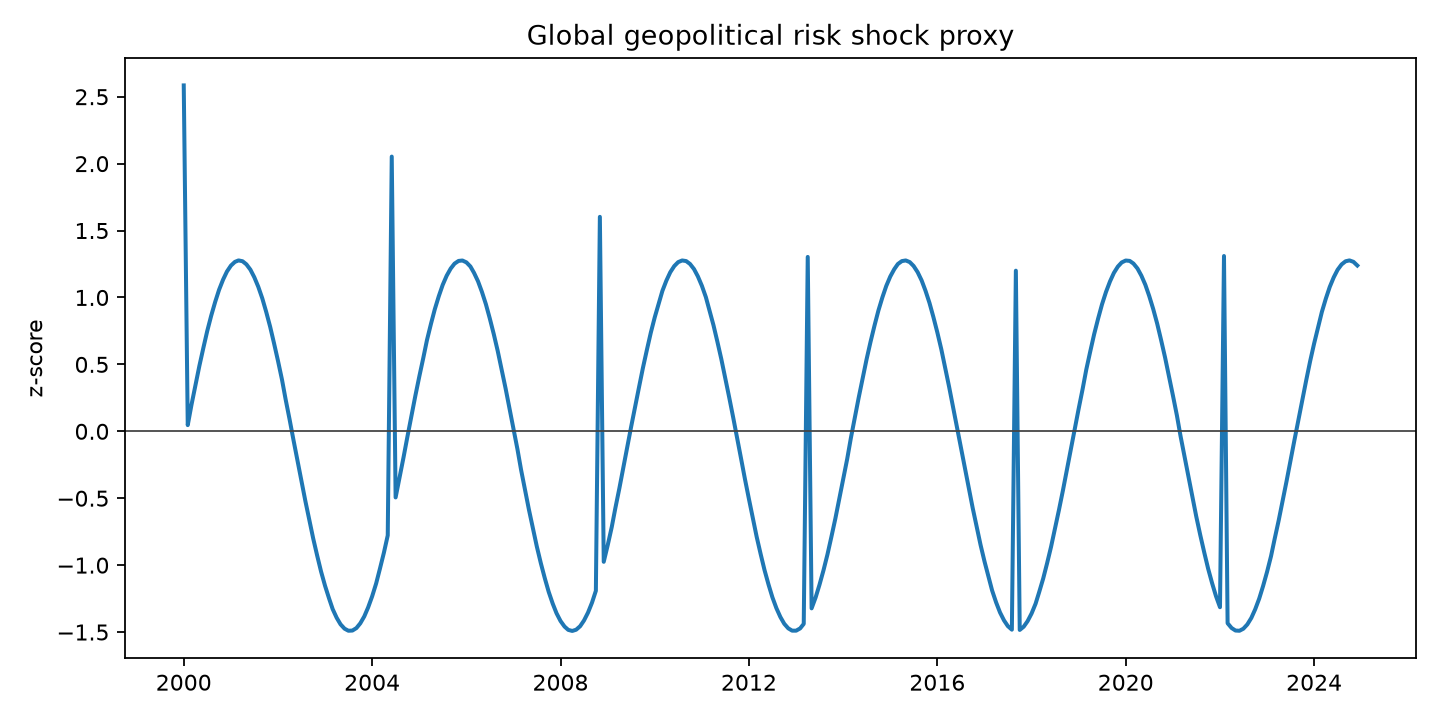
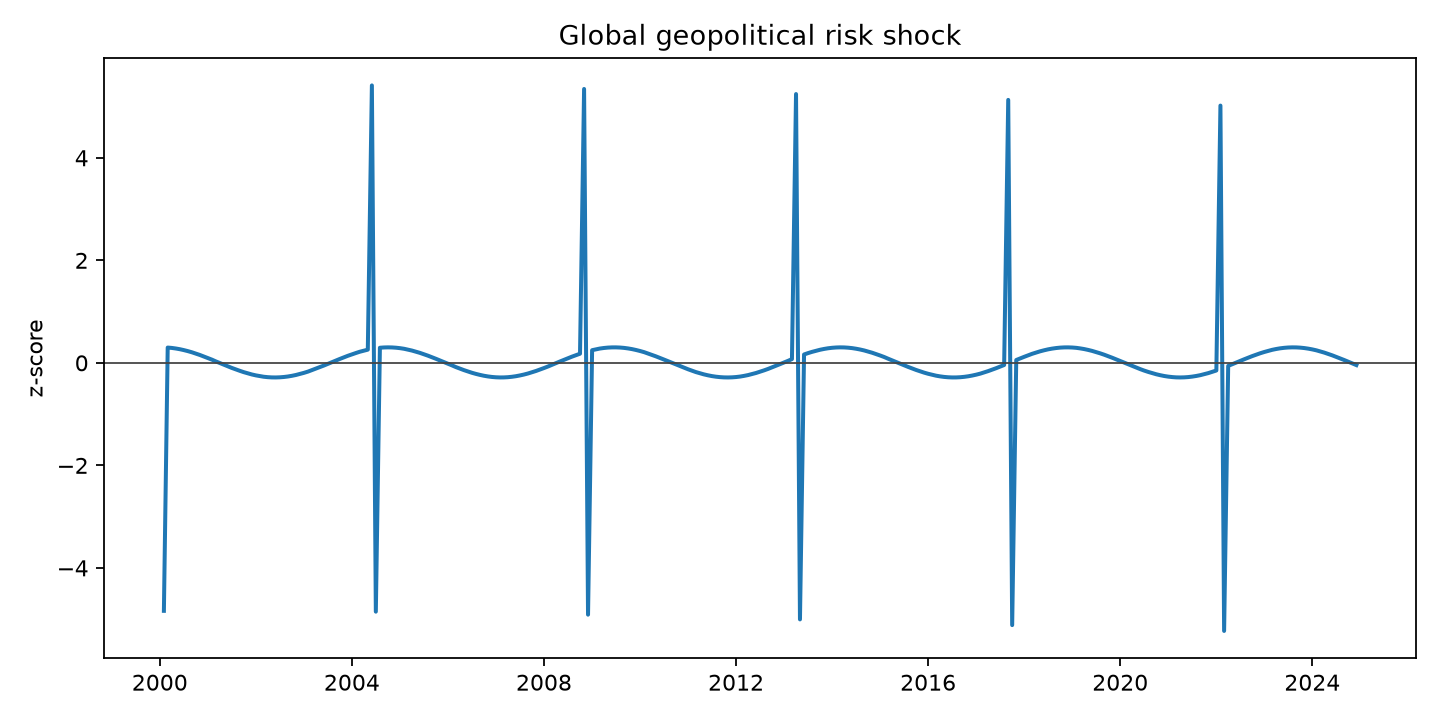
fix: present main GPR shock and validate forecast results

diff --git a/scripts/build_report.py b/scripts/build_report.py
@@ -49,23 +49,25 @@ def build_report(
         fig.text(0.1, 0.74, _metrics_block(metrics), fontsize=8, family="monospace")
         fig.text(0.1, 0.57, "Baseline regression", fontsize=13, weight="bold")
         fig.text(0.1, 0.52, _baseline_block(metrics), fontsize=8, family="monospace")
-        fig.text(0.1, 0.44, "Interpretation", fontsize=13, weight="bold")
-        fig.text(0.1, 0.40, metrics["interpretation"], fontsize=9, wrap=True)
-        fig.text(0.1, 0.33, "Summary statistics", fontsize=13, weight="bold")
-        fig.text(0.1, 0.28, summary.to_string(index=False), fontsize=7, family="monospace")
-        fig.text(0.1, 0.20, "Forecast comparison", fontsize=13, weight="bold")
+        fig.text(0.1, 0.44, "Horizon response", fontsize=13, weight="bold")
+        fig.text(0.1, 0.39, _horizon_block(metrics), fontsize=7, family="monospace")
+        fig.text(0.1, 0.31, "Interpretation", fontsize=13, weight="bold")
+        fig.text(0.1, 0.27, metrics["interpretation"], fontsize=8, wrap=True)
+        fig.text(0.1, 0.21, "Summary statistics", fontsize=13, weight="bold")
+        fig.text(0.1, 0.16, summary.to_string(index=False), fontsize=6, family="monospace")
+        fig.text(0.1, 0.10, "Forecast comparison", fontsize=13, weight="bold")
         fig.text(
             0.1,
-            0.15,
+            0.06,
             forecasts[["model", "rmse", "mae", "oos_r2"]].to_string(index=False),
-            fontsize=7,
+            fontsize=6,
             family="monospace",
         )
         fig.text(
             0.1,
-            0.07,
+            0.02,
             text["limitations"],
-            fontsize=8,
+            fontsize=6,
             wrap=True,
         )
         pdf.savefig(fig)
@@ -121,6 +123,7 @@ def report_metrics(panel: pd.DataFrame, regressions: pd.DataFrame, shock_col: st
         "baseline_std_error": round(std_error, 4),
         "baseline_p_value": round(float(baseline["p_value"]), 4),
         "confidence_interval_95": (lower, upper),
+        "horizon_regressions": _horizon_rows(regressions, shock_col),
         "interpretation": _interpret_regression(estimate, shock_col),
     }
 
@@ -161,6 +164,37 @@ def _baseline_block(metrics: dict) -> str:
         ("95% CI", metrics["confidence_interval_95"]),
     ]
     return "\n".join(f"{label}: {value}" for label, value in rows)
+
+
+def _horizon_rows(regressions: pd.DataFrame, shock_col: str) -> list[dict]:
+    rows = []
+    data = regressions[regressions["term"] == shock_col].sort_values("horizon")
+    for _, row in data.iterrows():
+        estimate = round(float(row["estimate"]), 4)
+        std_error = round(float(row["std_error"]), 4)
+        rows.append(
+            {
+                "horizon": f"{int(row['horizon'])}m",
+                "estimate": estimate,
+                "std_error": std_error,
+                "p_value": round(float(row["p_value"]), 4),
+                "confidence_interval_95": (
+                    round(estimate - 1.96 * std_error, 3),
+                    round(estimate + 1.96 * std_error, 3),
+                ),
+            }
+        )
+    return rows
+
+
+def _horizon_block(metrics: dict) -> str:
+    rows = ["Horizon | Estimate | Std. error | p-value | 95% CI"]
+    for row in metrics["horizon_regressions"]:
+        rows.append(
+            f"{row['horizon']:>7} | {row['estimate']:>8} | {row['std_error']:>10} | "
+            f"{row['p_value']:>7} | {row['confidence_interval_95']}"
+        )
+    return "\n".join(rows)
 
 
 def main() -> None:

diff --git a/tests/test_real_monthly_pipeline.py b/tests/test_real_monthly_pipeline.py
@@ -196,11 +196,11 @@ def test_real_report_metrics_include_baseline_regression_summary(monkeypatch):
     )
     regressions = pd.DataFrame(
         {
-            "horizon": [1],
-            "term": ["gpr_global_z"],
-            "estimate": [-0.25],
-            "std_error": [0.10],
-            "p_value": [0.04],
+            "horizon": [1, 3, 6],
+            "term": ["gpr_global_z", "gpr_global_z", "gpr_global_z"],
+            "estimate": [-0.25, -0.50, -0.75],
+            "std_error": [0.10, 0.20, 0.30],
+            "p_value": [0.04, 0.03, 0.02],
         }
     )
 
@@ -215,4 +215,27 @@ def test_real_report_metrics_include_baseline_regression_summary(monkeypatch):
     assert metrics["baseline_std_error"] == 0.10
     assert metrics["baseline_p_value"] == 0.04
     assert metrics["confidence_interval_95"] == (-0.446, -0.054)
+    assert metrics["horizon_regressions"] == [
+        {
+            "horizon": "1m",
+            "estimate": -0.25,
+            "std_error": 0.1,
+            "p_value": 0.04,
+            "confidence_interval_95": (-0.446, -0.054),
+        },
+        {
+            "horizon": "3m",
+            "estimate": -0.5,
+            "std_error": 0.2,
+            "p_value": 0.03,
+            "confidence_interval_95": (-0.892, -0.108),
+        },
+        {
+            "horizon": "6m",
+            "estimate": -0.75,
+            "std_error": 0.3,
+            "p_value": 0.02,
+            "confidence_interval_95": (-1.338, -0.162),
+        },
+    ]
     assert "lower EM minus developed spread" in metrics["interpretation"]

diff --git a/tests/test_visualization.py b/tests/test_visualization.py
@@ -1,0 +1,20 @@
+import numpy as np
+import pandas as pd
+
+from georisklab.visualization.plots import plot_gpr_timeseries
+
+
+def test_plot_gpr_timeseries_uses_main_shock_by_default():
+    df = pd.DataFrame(
+        {
+            "date_month": pd.date_range("2020-01-01", periods=3, freq="MS"),
+            "gpr_global_z": [10.0, 20.0, 30.0],
+            "gpr_change_z": [-1.0, 0.0, 1.0],
+        }
+    )
+
+    figure = plot_gpr_timeseries(df)
+    y_values = figure.axes[0].lines[0].get_ydata()
+
+    np.testing.assert_allclose(y_values, df["gpr_change_z"])
+    assert figure.axes[0].get_title() == "Global geopolitical risk shock"

diff --git a/tests/test_ci_contracts.py b/tests/test_ci_contracts.py
@@ -7,10 +7,13 @@ def test_makefile_has_full_pipeline_target():
 
     assert (
         ".PHONY: setup data-monthly data-real features regressions forecasts figures "
-        "report validate-data pipeline pipeline-real test lint"
+        "report validate-data validate-results pipeline pipeline-real test lint"
     ) in makefile
     assert "pipeline:" in makefile
-    assert "data-monthly features validate-data regressions forecasts figures report" in makefile
+    assert (
+        "data-monthly features validate-data regressions forecasts validate-results figures report"
+        in makefile
+    )
 
 
 def test_makefile_has_real_pipeline_targets():
@@ -20,8 +23,12 @@ def test_makefile_has_real_pipeline_targets():
     assert "data-real:" in makefile
     assert "python scripts/build_real_monthly_data.py --config config/sources.yml" in makefile
     assert "python scripts/build_report.py --dataset $(DATASET)" in makefile
+    assert "validate-results:" in makefile
     assert "pipeline-real:" in makefile
-    assert "data-real features validate-data regressions forecasts figures report" in makefile
+    assert (
+        "data-real features validate-data regressions forecasts validate-results figures report"
+        in makefile
+    )
 
 
 def test_ci_runs_sample_pipeline_before_tests():

diff --git a/tests/test_public_outputs.py b/tests/test_public_outputs.py
@@ -36,3 +36,12 @@ def test_root_page_links_to_dashboard():
     assert page.exists()
     html = page.read_text(encoding="utf-8")
     assert "dashboard/index.html" in html
+
+
+def test_methodology_labels_ar1_residual_as_descriptive_full_sample():
+    root = Path(__file__).resolve().parents[1]
+    methodology = (root / "docs" / "METHODOLOGY.md").read_text(encoding="utf-8")
+
+    assert "gpr_ar1_residual_z" in methodology
+    assert "full-sample descriptive residual shock" in methodology
+    assert "not for real-time forecasting" in methodology

diff --git a/georisklab/visualization/plots.py b/georisklab/visualization/plots.py
@@ -6,11 +6,11 @@ import matplotlib.pyplot as plt  # noqa: E402
 import pandas as pd  # noqa: E402
 
 
-def plot_gpr_timeseries(df: pd.DataFrame):
+def plot_gpr_timeseries(df: pd.DataFrame, shock_col: str = "gpr_change_z"):
     fig, ax = plt.subplots(figsize=(9, 4.5))
-    ax.plot(df["date_month"], df["gpr_global_z"], color="#1f77b4", linewidth=1.8)
+    ax.plot(df["date_month"], df[shock_col], color="#1f77b4", linewidth=1.8)
     ax.axhline(0, color="#444444", linewidth=0.8)
-    ax.set_title("Global geopolitical risk shock proxy")
+    ax.set_title("Global geopolitical risk shock")
     ax.set_ylabel("z-score")
     ax.set_xlabel("")
     fig.tight_layout()

diff --git a/scripts/run_task.py b/scripts/run_task.py
@@ -26,6 +26,7 @@ TASKS = {
     "figures": [[sys.executable, "scripts/make_figures.py"]],
     "report": [[sys.executable, "scripts/build_report.py", "--dataset", "sample"]],
     "validate-data": [[sys.executable, "scripts/validate_data.py"]],
+    "validate-results": [[sys.executable, "scripts/validate_data.py"]],
     "test": [[sys.executable, "-m", "pytest"]],
     "lint": [[sys.executable, "-m", "ruff", "check", "."]],
 }
@@ -36,6 +37,7 @@ PIPELINE = [
     "validate-data",
     "regressions",
     "forecasts",
+    "validate-results",
     "figures",
     "report",
 ]
@@ -46,6 +48,7 @@ PIPELINE_REAL = [
     "validate-data-real",
     "regressions-real",
     "forecasts-real",
+    "validate-results-real",
     "figures-real",
     "report-real",
 ]
@@ -54,6 +57,9 @@ TASKS.update(
     {
         "features-real": [[sys.executable, "scripts/build_features.py", "--dataset", "real"]],
         "validate-data-real": [
+            [sys.executable, "scripts/validate_data.py", "--dataset", "real"]
+        ],
+        "validate-results-real": [
             [sys.executable, "scripts/validate_data.py", "--dataset", "real"]
         ],
         "regressions-real": [

diff --git a/docs/METHODOLOGY.md b/docs/METHODOLOGY.md
@@ -97,6 +97,14 @@ stores `Mkt-RF` as `excess_return`, `RF` as `risk_free_rate`, and computes
 
 If risk-free alignment is messy, use raw USD returns in version 0.1 and document the limitation.
 
+### GPR shock measures
+
+The main V0.1 specification uses `gpr_change_z`, a standardized monthly change
+in global GPR. `gpr_level_z` is kept as a high-risk-regime robustness measure.
+`gpr_ar1_residual_z` is a full-sample descriptive residual shock. Use the label
+not for real-time forecasting. A future forecasting-safe version should use an
+expanding AR(1) residual such as `gpr_ar1_residual_expanding_z`.
+
 ### Forward cumulative returns
 
 ```text